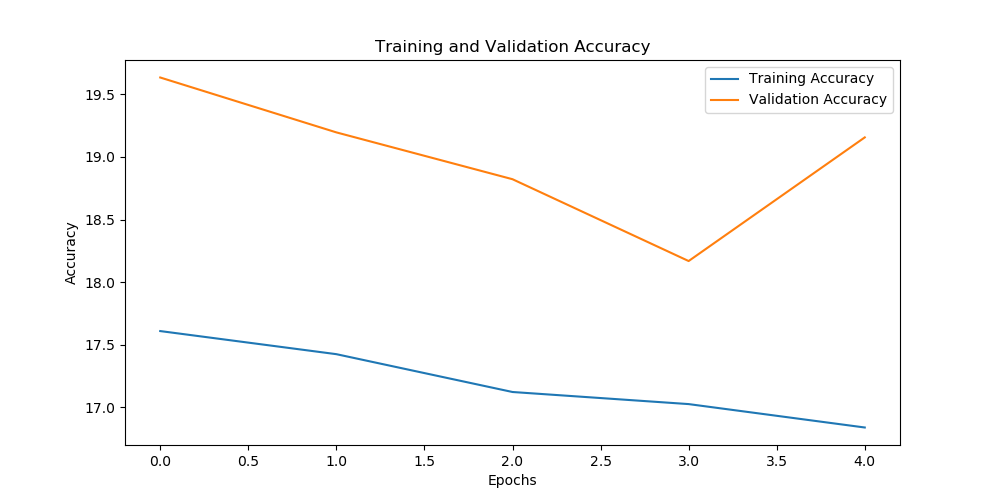
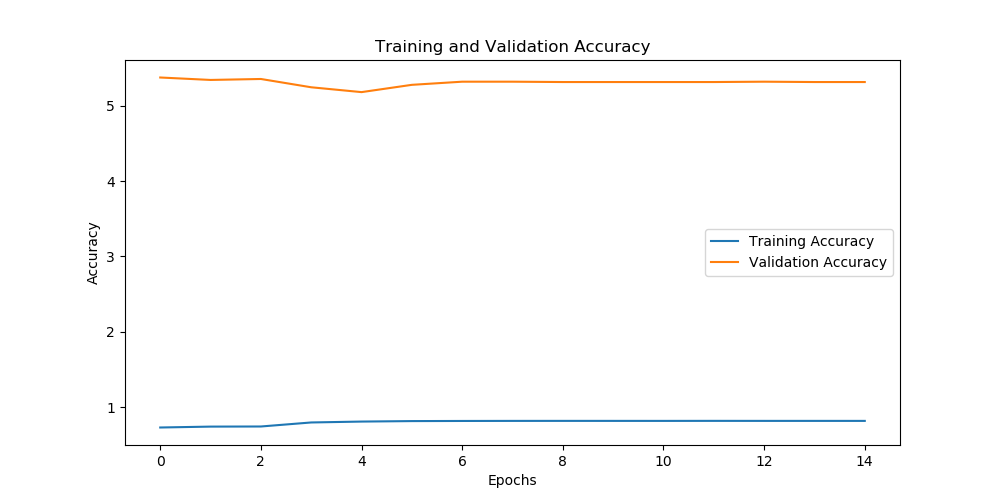
add stacking ensemble

diff --git a/clip_fully_supervised.py b/clip_fully_supervised.py
@@ -161,9 +161,9 @@ print('Datasets created')
 
 #Create dataloader fot training, validation and testig
 
-train_dataloader = DataLoader(train_dataset, batch_size=32, shuffle=True)
-val_dataloader = DataLoader(val_dataset, batch_size=32, shuffle=False)
-test_dataloader = DataLoader(test_dataset, batch_size=32, shuffle=False)
+train_dataloader = DataLoader(train_dataset, batch_size=8, shuffle=True)
+val_dataloader = DataLoader(val_dataset, batch_size=8, shuffle=False)
+test_dataloader = DataLoader(test_dataset, batch_size=8, shuffle=False)
 
 print('Dataloaders created')
 
@@ -179,14 +179,14 @@ if device == "cpu":
   model.float()
 
 #Define number of epochs
-num_epochs = 10
+num_epochs = 15
 
 # Prepare the optimizer - the lr, betas, eps and weight decay are from the CLIP paper
-optimizer = torch.optim.Adam(model.parameters(), lr=0.0001,betas=(0.9,0.98),eps=1e-6,weight_decay=0.2)
+optimizer = torch.optim.Adam(model.parameters(), lr=1e-5,betas=(0.9,0.98),eps=1e-6,weight_decay=0.2)
 #optimizer = torch.optim.Adam(model.parameters(), lr=1e-5,betas=(0.9,0.98),eps=1e-6,weight_decay=0.2)
 #scheduler = optim.lr_scheduler.CosineAnnealingLR(optimizer, len(train_dataloader)*num_epochs)
 #scheduler = CosineAnnealingWarmRestarts(optimizer, T_0=10, T_mult=2)
-scheduler = ReduceLROnPlateau(optimizer, mode='min', factor=0.1, patience=10, verbose=True)
+scheduler = ReduceLROnPlateau(optimizer, mode='min', factor=0.5, patience=1, verbose=True)
 
 
 # Specify the loss functions - for images and for texts
@@ -196,7 +196,7 @@ loss_txt = nn.CrossEntropyLoss()
 best_te_loss = 1e5
 best_ep = -1
 early_stopping_counter = 0
-early_stopping_patience = 30
+early_stopping_patience = 5
 early_stopping_threshold = 0.03
 train_accuracies = []
 val_accuracies = []
@@ -250,15 +250,15 @@ for epoch in range(num_epochs):
         # Get and convert similarity scores to predicted labels
         similarity = logits_per_image.softmax(dim=-1)
         value, index = similarity.topk(1)
+        
+        #Convert values to numpy
+        predicted_label = index.squeeze().cpu().numpy()
+        ground_truth_label = ground_truth.cpu().numpy()
 
-        correct = (index == ground_truth).sum().item()
+        correct = (predicted_label == ground_truth_label).sum().item()
         total = len(labels)
         epoch_train_correct += correct
         epoch_train_total += total
-        
-        #Convert values to numpy
-        predicted_label = index.cpu().numpy()
-        ground_truth_label = ground_truth.cpu().numpy()
 
         # Zero out gradients for the optimizer (Adam) - to prevent adding gradients to previous ones
         optimizer.zero_grad()
@@ -323,14 +323,14 @@ for epoch in range(num_epochs):
                 total_loss = loss_img(logits_per_image,ground_truth) 
                 te_loss += total_loss.item()
 
-                correct = (index == ground_truth).sum().item()
+                # Convert similarity scores to predicted labels
+                predicted_label = index.squeeze.cpu().numpy()
+                ground_truth_label = ground_truth.cpu().numpy()
+
+                correct = (predicted_label == ground_truth_label).sum().item()
                 total = len(labels)
                 epoch_val_correct += correct
                 epoch_val_total += total
-
-                # Convert similarity scores to predicted labels
-                predicted_label = index.cpu().numpy()
-                ground_truth_label = ground_truth.cpu().numpy()
 
                 # Append predicted labels and ground truth labels
                 all_preds.append(predicted_label)
@@ -352,10 +352,10 @@ for epoch in range(num_epochs):
                 vbar.set_description(f"Validation: {i}/{len(val_dataloader)}, Validation loss: {total_loss.item():.4f}")
                 i+=1
 
-        te_loss /= step
-        val_accuracy = epoch_val_correct / epoch_val_total
-        val_losses.append(te_loss)
-        val_accuracies.append(val_accuracy)
+    te_loss /= step
+    val_accuracy = epoch_val_correct / epoch_val_total
+    val_losses.append(te_loss)
+    val_accuracies.append(val_accuracy)
 
     #call the scheduler in case of reduceonplato
     scheduler.step(te_loss)
@@ -596,7 +596,7 @@ def visualize_features(features, labels, title):
     plt.scatter(reduced_features[:, 0], reduced_features[:, 1], c=labels, cmap='viridis', alpha=0.5)
     plt.colorbar()
     plt.title(title)
-    plt.savefig('clip_fullysupervised_features_reduceplato.png')
+    plt.savefig('clip_fullysupervised_features_reduceplato_1.png')
     plt.close()
 
 visualize_features(test_features, test_labels, 'Test Features')

diff --git a/ensemble_with_stacking.py b/ensemble_with_stacking.py
@@ -24,6 +24,7 @@ import matplotlib.pyplot as plt
 from datetime import datetime
 from torch.nn.parallel import DataParallel
 from torch.optim.lr_scheduler import ReduceLROnPlateau
+from sklearn.linear_model import LogisticRegression
 
 # Define device
 if torch.cuda.is_available():
@@ -275,7 +276,7 @@ if device == "cpu":
   clip_model.float()
 
 class CLIP_MobileNetV3_RNN_Ensemble(nn.Module):
-    def __init__(self, clip_model, mobilenet_rnn_model, dataloader):
+    def __init__(self, clip_model, mobilenet_rnn_model):
         super(CLIP_MobileNetV3_RNN_Ensemble, self).__init__()
         #set the models
         self.clip_model = clip_model
@@ -286,30 +287,48 @@ class CLIP_MobileNetV3_RNN_Ensemble(nn.Module):
         for param in self.mobilenet_rnn_model.parameters():
             param.requires_grad = False
 
-        #dataloader with preprocessed videos
-        self.dataloader = dataloader
 
-    def forward(self, frames, label, image, classname):
+    def forward(self, frames, image, classname):
         #send all data to device
         images = image.to(device)
-        labels = label.to(device)
         frames = frames.to(device)
         #get clip logits
         text_inputs = clip.tokenize(classname,context_length=77, truncate=True).to(device)
-        print('images', images.shape)
-        print('text', text_inputs.shape)
         #text_inputs.squeeze(dim=1)
         logits_per_image, logits_per_text = self.clip_model(images, text_inputs)
 
         #get mobilenet-rnn logits
         rnn_logits = self.mobilenet_rnn_model(frames)
 
-        #combine the logits
-        combined_logits = (logits_per_image + rnn_logits)/2
+        # Ensure data types for concatenation
+        logits_per_image = logits_per_image.float()
+        rnn_logits = rnn_logits.float()
 
-        return combined_logits
+        #combine logits
+        combined_data = torch.cat((logits_per_image, rnn_logits), dim=1)
 
-ensemble_model = CLIP_MobileNetV3_RNN_Ensemble(clip_model, rnn_model, test_dataloader)
+        return combined_data
+
+ensemble_model = CLIP_MobileNetV3_RNN_Ensemble(clip_model, rnn_model)
+
+def get_features(model, dataloader):
+    model.eval()
+    all_features = []
+    all_labels = []
+    
+    with torch.no_grad():
+        for frames, label, image in dataloader:
+            
+            features = model(frames, image, class_names)
+            all_features.extend(features.cpu().numpy())
+            all_labels.extend(label.cpu().numpy())
+    
+    return all_features, all_labels
+
+val_features, val_labels = get_features(ensemble_model, val_dataloader)
+meta_model = LogisticRegression()
+meta_model.fit(val_features, val_labels)
+
 
 def evaluate_model(model, dataloader, device):
     model.eval()
@@ -317,13 +336,12 @@ def evaluate_model(model, dataloader, device):
     all_labels = []
     
     with torch.no_grad():
-        for frames, label, image in dataloader:
             
-            outputs = model(frames, label, image, class_names)
-            _, preds = torch.max(outputs, 1)
+            test_preds, test_labels = get_features(model, dataloader)
+            meta_preds = meta_model.predict(test_preds)
             
-            all_preds.extend(preds.cpu().numpy())
-            all_labels.extend(label.cpu().numpy())
+            all_preds.extend(meta_preds)
+            all_labels.extend(test_labels)
     
     accuracy = accuracy_score(all_labels, all_preds)
     precision = precision_score(all_labels, all_preds, average='binary')

diff --git a/testing_cnn.py b/testing_cnn.py
@@ -24,15 +24,15 @@ from datetime import datetime
 from torch.nn.parallel import DataParallel
 
 # Define device
-'''if torch.cuda.is_available():
+if torch.cuda.is_available():
     device = torch.device("cuda") # use CUDA device
 #elif torch.backends.mps.is_available():
 #    device = torch.device("mps") # use MacOS GPU device (e.g., for M2 chips)
 else:
     device = torch.device("cpu") # use CPU device
-print('Used device: ', device)'''
+print('Used device: ', device)
 
-device = torch.device("cpu")
+#device = torch.device("cpu")
 
 class MobileNetV3Small_RNN(nn.Module):
     def __init__(self, num_classes, rnn_type="LSTM"):
@@ -90,9 +90,9 @@ class MobileNetV3Small_RNN(nn.Module):
         
         return logits
     
-model = MobileNetV3Small_RNN(num_classes=2, rnn_type="LSTM")
+model = MobileNetV3Small_RNN(num_classes=2, rnn_type="GRU")
 model = model.to(device)
-state_dict = torch.load('../cnn_rnn/light_cnn_last_model_lstm_13e.pt', map_location=device)
+state_dict = torch.load('../light_cnn_best_model.pt', map_location=device)
 '''print("Pretrained Dict Keys:")
 for key in state_dict.keys():
     print(key)'''

diff --git a/cnn_rnn.py b/cnn_rnn.py
@@ -211,9 +211,16 @@ num_epochs = 50
 #optimizer: first trainings:
 #optimizer = torch.optim.Adam(model.parameters(), lr=5e-4,betas=(0.9,0.98),eps=1e-6,weight_decay=1e-6)
 #optimizer: second trainings:
-optimizer = torch.optim.Adam(model.parameters(), lr=0.0005)
+#optimizer = torch.optim.Adam(model.parameters(), lr=0.0005)
+#optimizer: third trainings:
+optimizer = torch.optim.Adam(model.parameters(), lr=0.0005, weight_decay=1e-4)
 loss = nn.CrossEntropyLoss()
-scheduler = ReduceLROnPlateau(optimizer, mode='min', factor=0.1, patience=5, verbose=True)
+#second_option_scheduler:
+#scheduler = ReduceLROnPlateau(optimizer, mode='min', factor=0.1, patience=5, verbose=True)
+#third_option_scheduler:
+#scheduler = ReduceLROnPlateau(optimizer, mode='min', factor=0.1, patience=3, verbose=True)
+#4. option:
+scheduler = ReduceLROnPlateau(optimizer, mode='min', factor=0.1, patience=3, verbose=True)
 #scheduler = optim.lr_scheduler.CosineAnnealingLR(optimizer, len(train_dataloader)*num_epochs)
 
 

diff --git a/clip_linear.py b/clip_linear.py
@@ -33,7 +33,7 @@ print('Used device: ', device)
 #Load CLIP model - ViT B32
 model, preprocess = clip.load('ViT-B/16', device, jit=False)
 
-state_dict = torch.load('../fs_best_model_30.pt', map_location=device)
+state_dict = torch.load('../clip_fully_supervised/fs_best_model_30e_5p.pt', map_location=device)
 model.load_state_dict(state_dict)
 
 # Load the dataset
@@ -237,8 +237,8 @@ for epoch in range(num_epochs):
     if val_accuracy > best_val_accuracy:
         best_val_accuracy = val_accuracy
         best_epoch = epoch
-    #else:
-    #    break
+    else:
+        break
 
 # Print the best validation accuracy and the corresponding epoch
 print(f"Best Validation Accuracy = {best_val_accuracy:.3f} at Epoch {best_epoch}")
